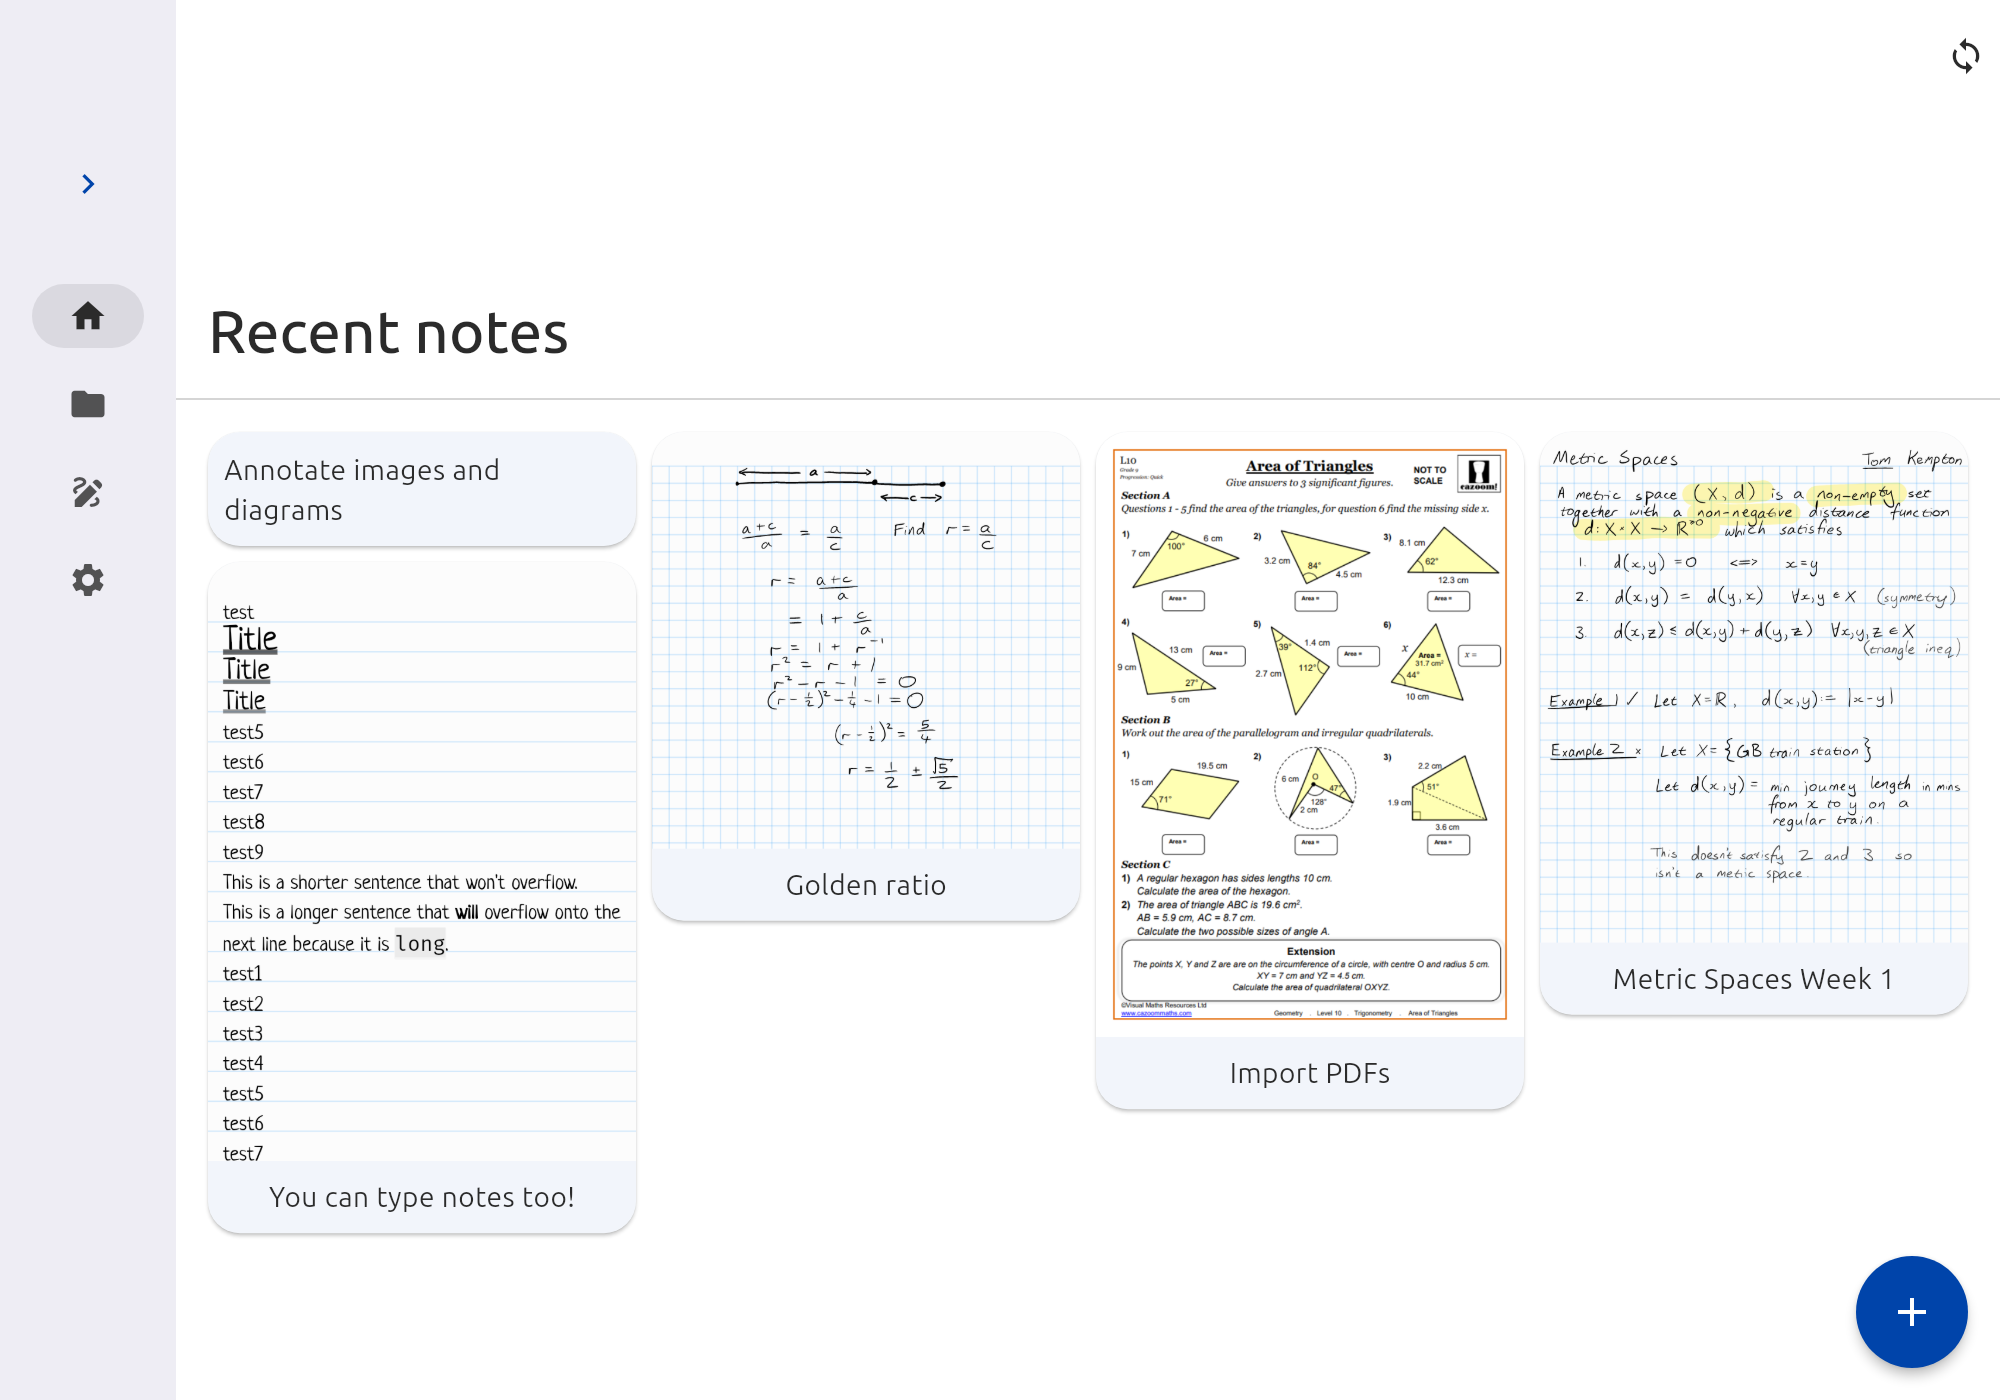
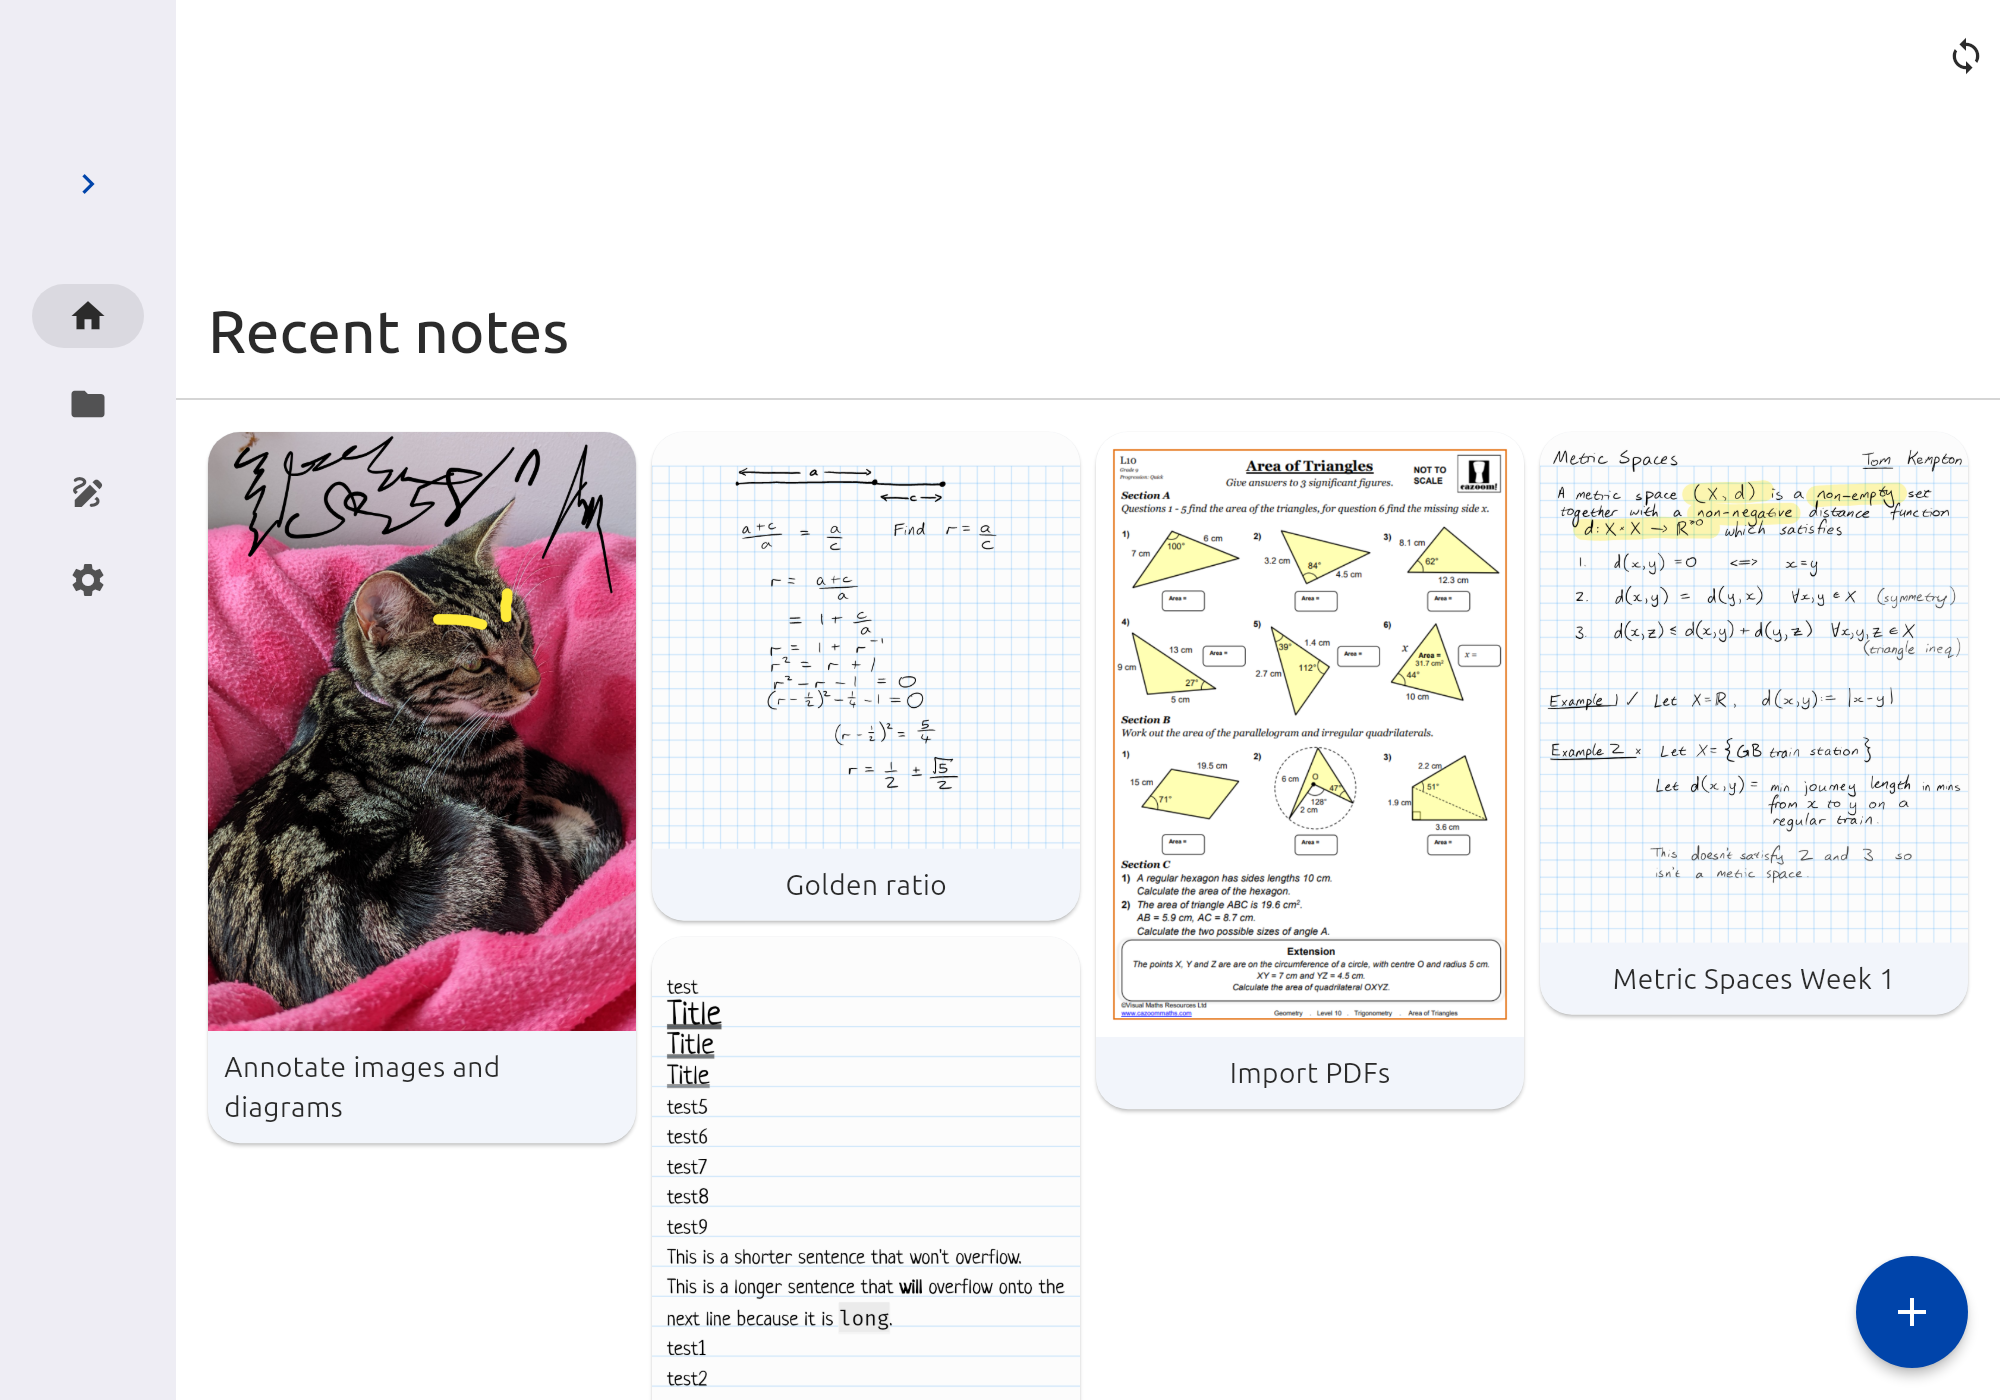
test: sort recent files for screenshots

Changed region(s): [[0.093, 0.3071, 0.372, 0.8293], [0.341, 0.8293, 0.527, 1.0], [0.155, 0.8293, 0.279, 0.8907]]

diff --git a/test/screenshot_goldens_test.dart b/test/screenshot_goldens_test.dart
@@ -46,19 +46,22 @@ void main() {
           ]),
         ]));
 
-    Prefs.recentFiles.value = [];
-    setUpAll(() => Future.wait(Directory('test/demo_notes/')
-            .listSync()
-            .whereType<File>()
-            .map((file) async {
-          /// The file name starting with a slash
-          final fileName = file.path.substring(file.path.lastIndexOf('/'));
-          if (fileName.endsWith('.sbn2') || fileName.endsWith('.sbn')) {
-            Prefs.recentFiles.value.add(fileName);
-          }
-          final bytes = await file.readAsBytes();
-          return FileManager.getFile(fileName).writeAsBytes(bytes);
-        })));
+    setUpAll(() async {
+      final recentFiles = <String>[];
+      await Future.wait(Directory('test/demo_notes/')
+          .listSync()
+          .whereType<File>()
+          .map((file) async {
+        /// The file name starting with a slash
+        final fileName = file.path.substring(file.path.lastIndexOf('/'));
+        if (fileName.endsWith('.sbn2') || fileName.endsWith('.sbn')) {
+          recentFiles.add(fileName);
+        }
+        final bytes = await file.readAsBytes();
+        return FileManager.getFile(fileName).writeAsBytes(bytes);
+      }));
+      Prefs.recentFiles.value = recentFiles..sort();
+    });
 
     final colorScheme = ColorScheme.fromSeed(
       seedColor: const Color(0xffdae2ff),
